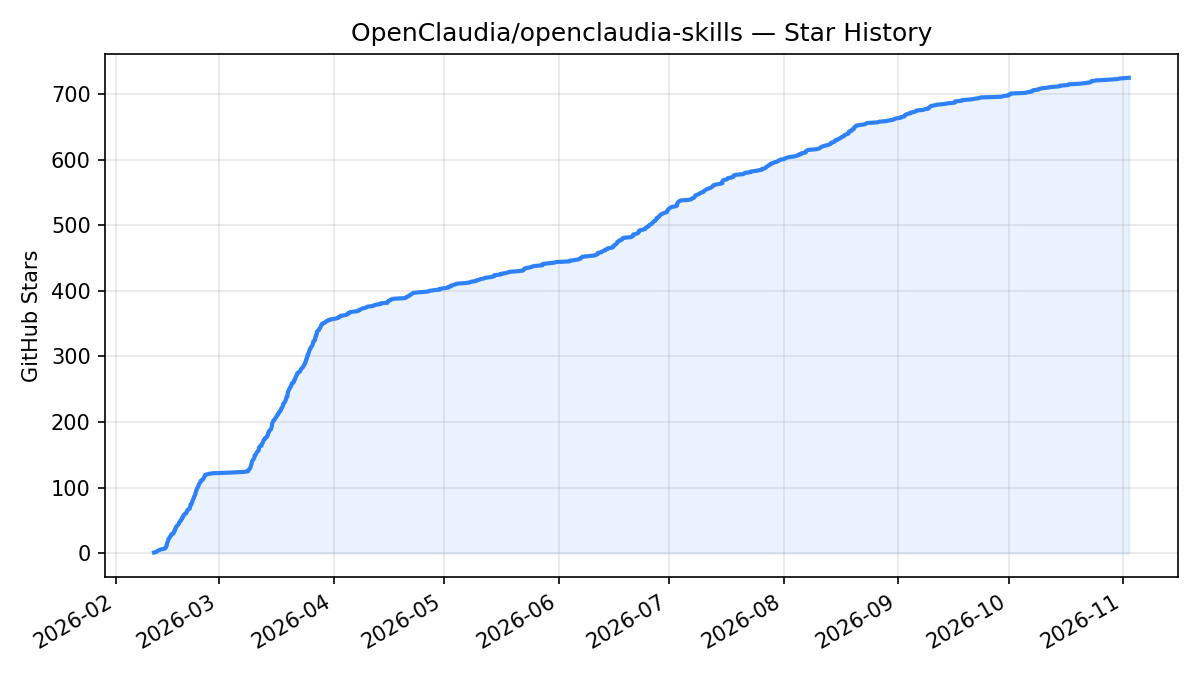
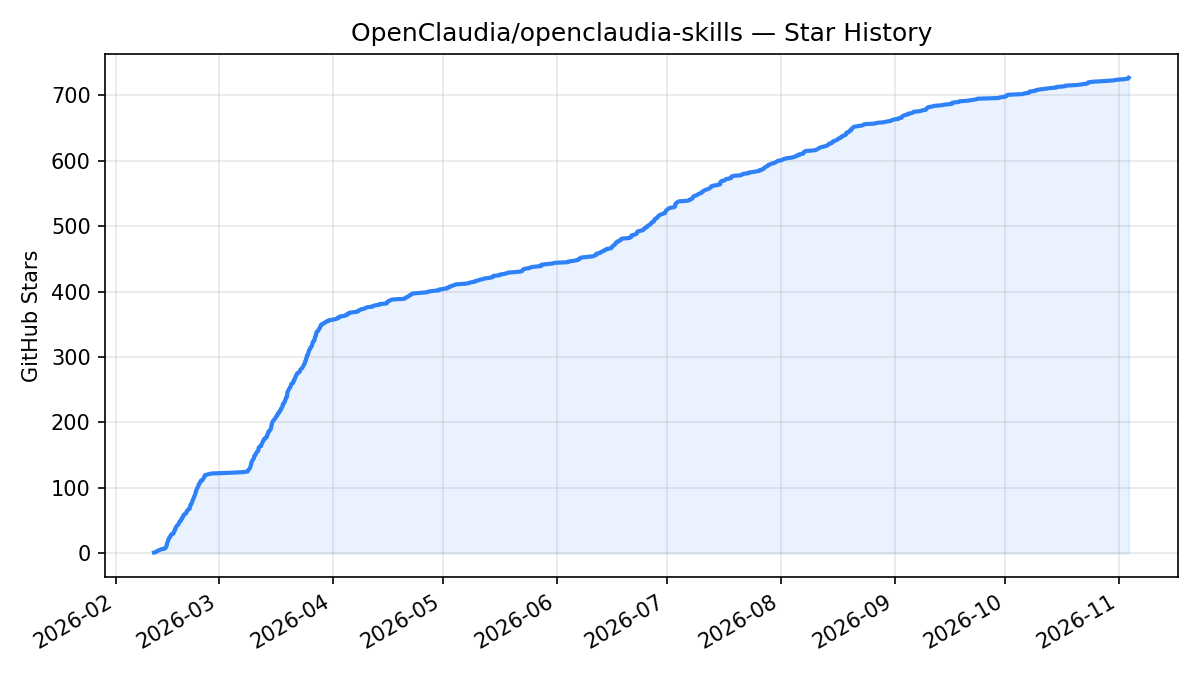
readme: refresh star chart (727 stars)

diff --git a/README.md b/README.md
@@ -344,7 +344,7 @@ MIT — see [LICENSE](LICENSE)
 
 ![Star History Chart](assets/star-history.png)
 
-<sub>Updated 2026-11-03. GitHub [restricted the stargazers API](https://github.blog/changelog/2026-06-30-upcoming-access-restrictions-to-public-api-endpoints-and-ui-views/) in June 2026, so the live star-history.com badge no longer renders; this chart is generated from the repo's own star data.</sub>
+<sub>Updated 2026-11-04. GitHub [restricted the stargazers API](https://github.blog/changelog/2026-06-30-upcoming-access-restrictions-to-public-api-endpoints-and-ui-views/) in June 2026, so the live star-history.com badge no longer renders; this chart is generated from the repo's own star data.</sub>
 
 ---
 
